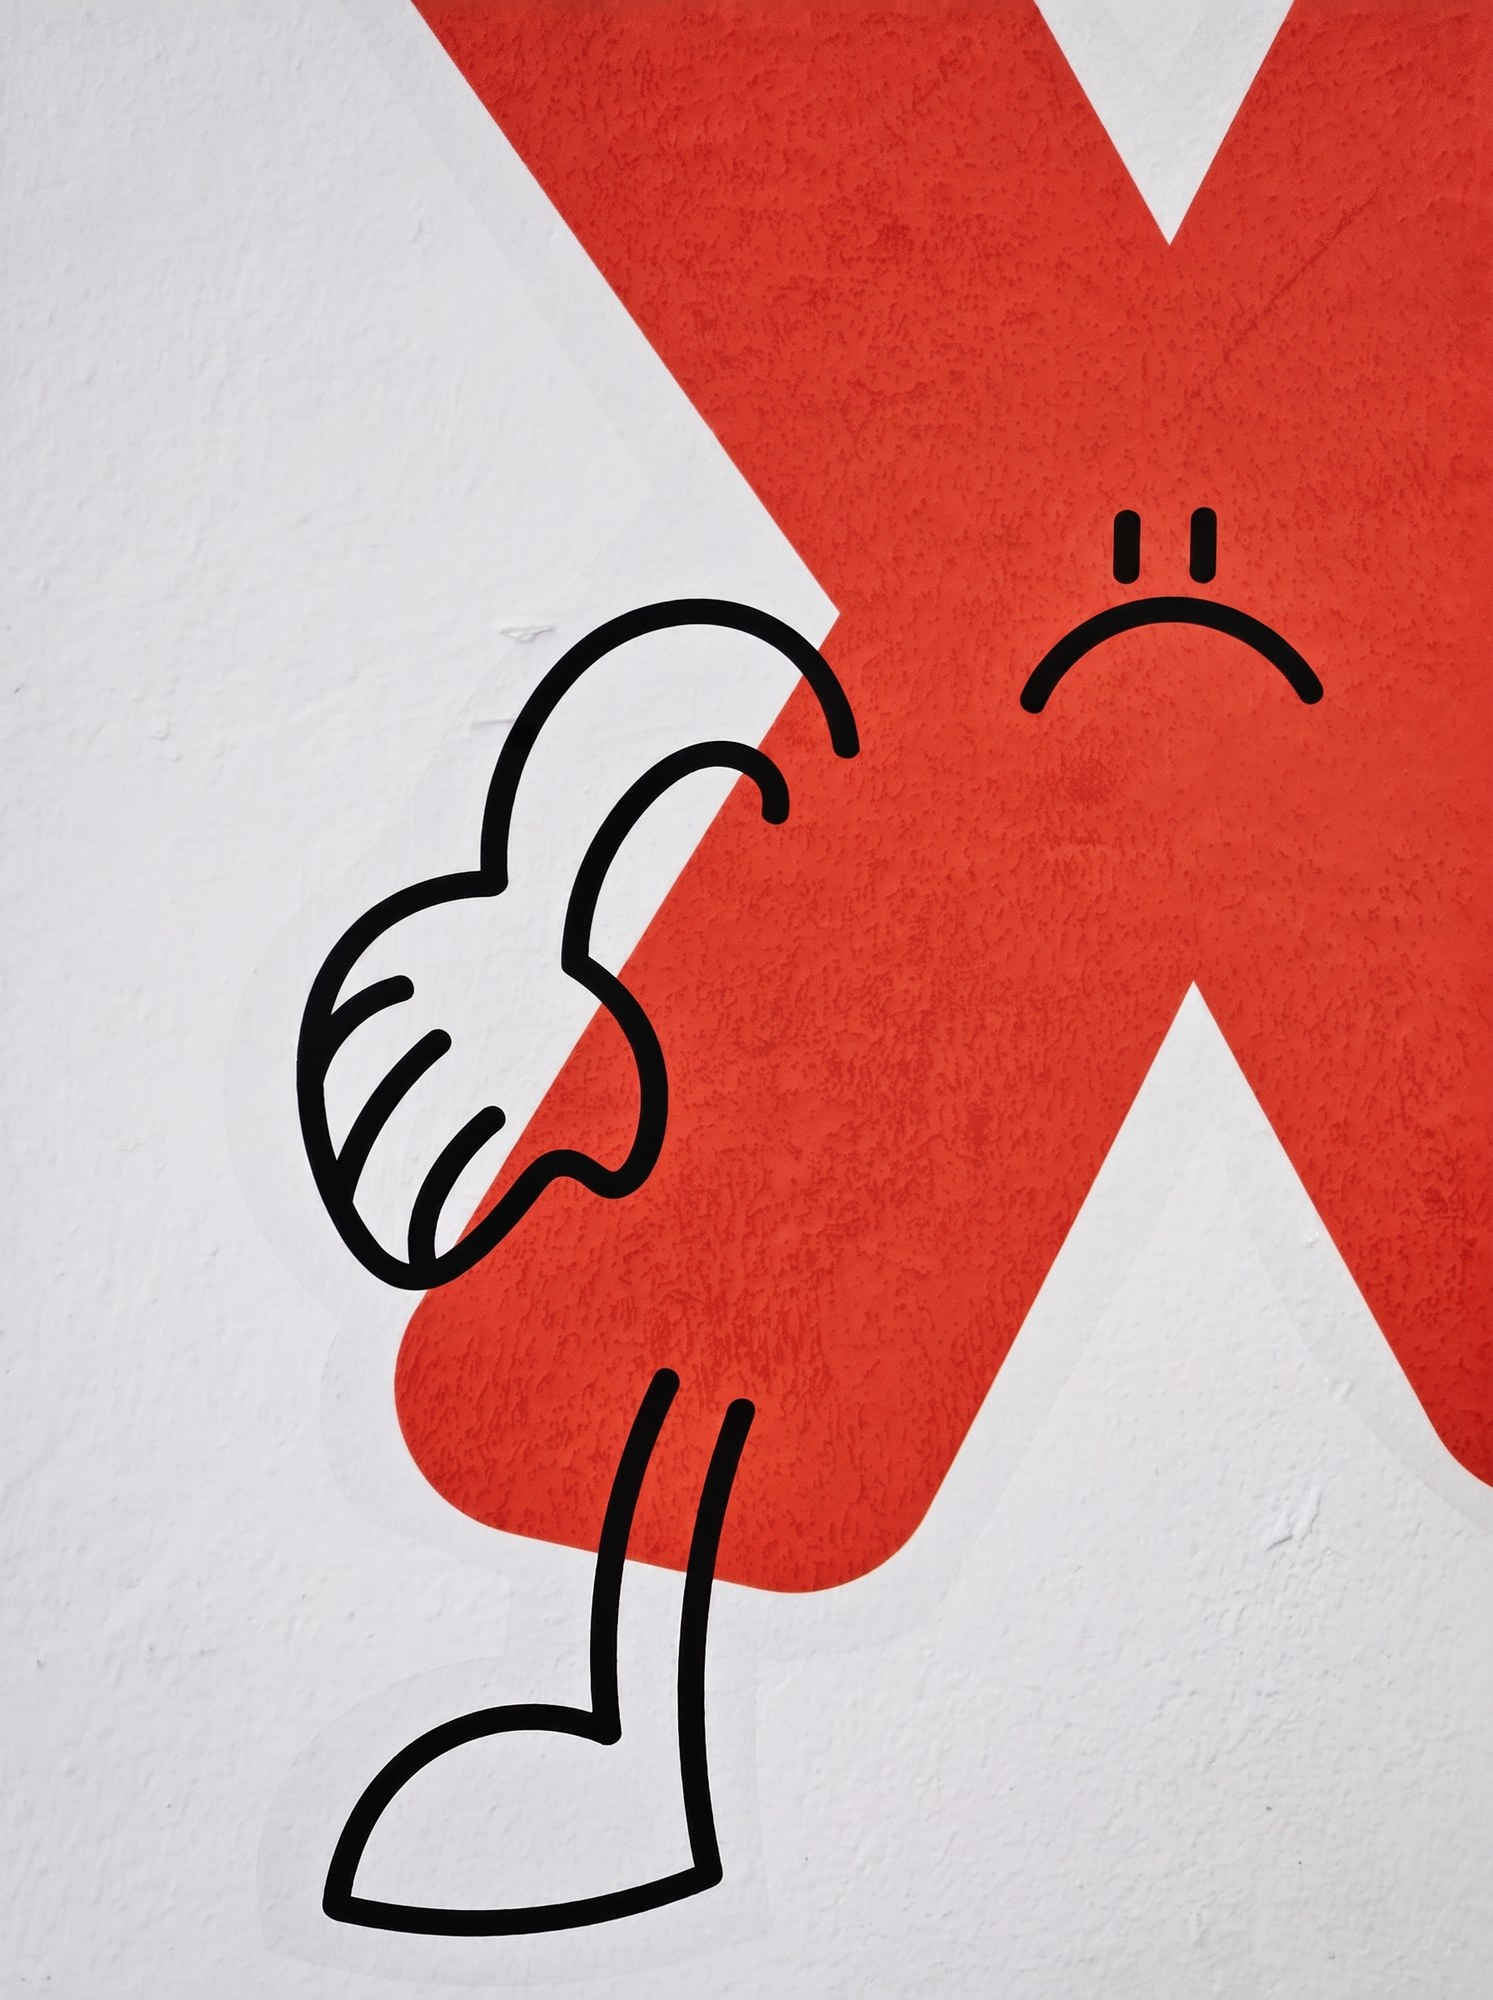
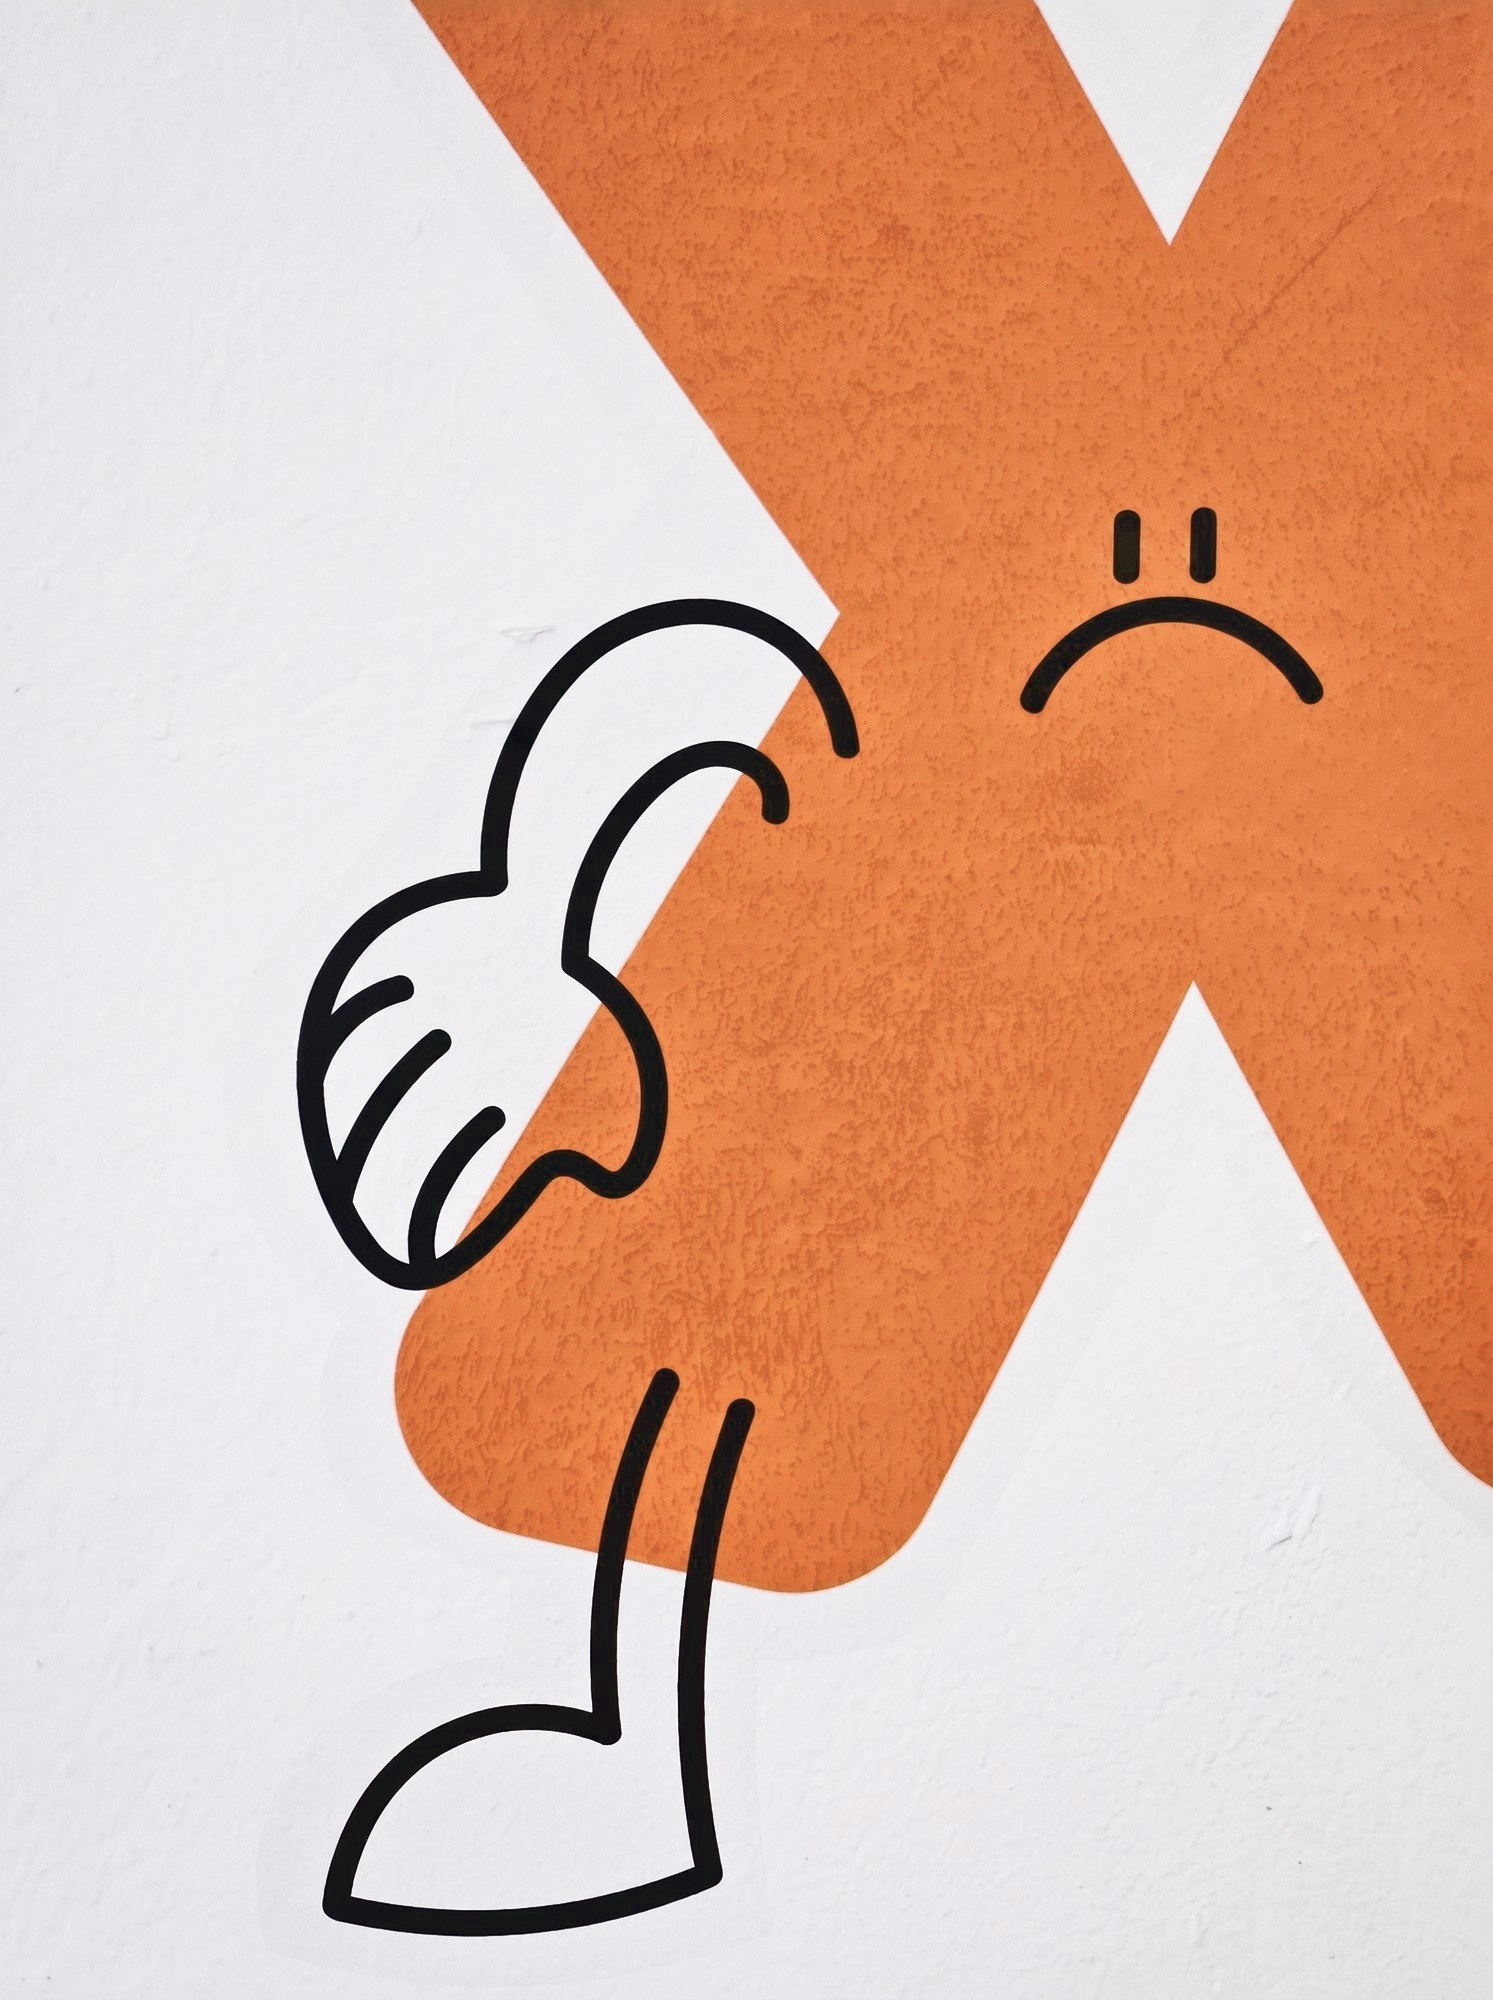
Warm the ChikChak mark, and make the hero drift readable
Colour: the X moves from hue 10 to 26 degrees, so it reads orange
rather than red, with saturation eased from 0.75 to 0.65. The wall
lifts from 222 to 235 and loses some of its grey cast, and the blacks
come up slightly so the frame is gentler overall. Regraded from the
original PNG rather than the JPEG I had already written, so there is
only one generation of compression.

The close-up in the gallery is the same mark, so it gets the same
treatment. Left alone it would have shown a red X on a page whose
header had an orange one.

Motion: the shapes were travelling about 13% of a 40px shape over 9 to
19 seconds, roughly half a pixel a second, which reads as a rendering
fault rather than as movement. Travel is now around 50% with shorter
loops, measured at 13 to 30px per cycle. Checked across four points in
the loop that nothing drifts onto the flowers.

Claude-Session: https://claude.ai/code/session_01W9nRTNjjATAc83RHb9wNSu

diff --git a/assets/styles.css b/assets/styles.css
@@ -204,41 +204,45 @@ a { color: inherit; text-decoration: none; }
   will-change: transform;
 }
 /* Lifted out of the artwork — coordinates are the originals. */
-.hero__shape--circle   { left: 31.562%; top: 46.319%; width: 3.008%; animation: drift-a 11s ease-in-out      0s infinite; }
-.hero__shape--pyramid  { left: 26.680%; top: 52.292%; width: 3.594%; animation: drift-b 14s ease-in-out     -2s infinite; }
-.hero__shape--star     { left: 61.797%; top: 43.125%; width: 3.242%; animation: drift-c  9s ease-in-out      0s infinite; }
-.hero__shape--cylinder { left: 67.383%; top: 46.528%; width: 3.867%; animation: drift-d 16s ease-in-out     -4s infinite; }
+.hero__shape--circle   { left: 31.562%; top: 46.319%; width: 3.008%; animation: drift-a  8s ease-in-out      0s infinite; }
+.hero__shape--pyramid  { left: 26.680%; top: 52.292%; width: 3.594%; animation: drift-b 10s ease-in-out     -2s infinite; }
+.hero__shape--star     { left: 61.797%; top: 43.125%; width: 3.242%; animation: drift-c  7s ease-in-out      0s infinite; }
+.hero__shape--cylinder { left: 67.383%; top: 46.528%; width: 3.867%; animation: drift-d 11s ease-in-out     -4s infinite; }
 
 /* Added decoration, sitting in the empty ground around the composition. */
-.hero__shape--f-cube    { left: 12.500%; top: 63.000%; width: 4.000%; animation: drift-b 19s ease-in-out    -6s infinite; }
-.hero__shape--f-pyramid { left: 82.000%; top: 60.000%; width: 3.400%; animation: drift-e 15s ease-in-out    -1s infinite; }
-.hero__shape--f-circle  { left: 36.000%; top: 87.500%; width: 2.300%; animation: drift-a 13s ease-in-out    -5s infinite; }
-.hero__shape--f-star    { left: 64.000%; top: 88.000%; width: 2.600%; animation: drift-c 12s ease-in-out    -3s infinite; }
+.hero__shape--f-cube    { left: 12.500%; top: 63.000%; width: 4.000%; animation: drift-b 13s ease-in-out    -6s infinite; }
+.hero__shape--f-pyramid { left: 82.000%; top: 60.000%; width: 3.400%; animation: drift-e 10s ease-in-out    -1s infinite; }
+.hero__shape--f-circle  { left: 36.000%; top: 87.500%; width: 2.300%; animation: drift-a  9s ease-in-out    -5s infinite; }
+.hero__shape--f-star    { left: 64.000%; top: 88.000%; width: 2.600%; animation: drift-c  8s ease-in-out    -3s infinite; }
 
 /* Percentage translations resolve against each shape's own box, so the
-   drift stays proportional however large the hero happens to be drawn. */
+   drift stays proportional however large the hero happens to be drawn.
+   These used to move about 13% of a 40px shape over 9 to 19 seconds,
+   roughly half a pixel a second, which reads as a rendering fault rather
+   than as motion. The travel is now about 50% and the loops are shorter,
+   so a shape covers a fifth of its own width in a second or two. */
 @keyframes drift-a {
   0%, 100% { transform: translate(0, 0); }
-  33%      { transform: translate(6%, -13%); }
-  66%      { transform: translate(-4%, -6%); }
+  33%      { transform: translate(22%, -48%); }
+  66%      { transform: translate(-16%, -22%); }
 }
 @keyframes drift-b {
   0%, 100% { transform: translate(0, 0) rotate(0deg); }
-  40%      { transform: translate(-6%, -10%) rotate(-5deg); }
-  70%      { transform: translate(3%, -4%) rotate(2deg); }
+  40%      { transform: translate(-24%, -40%) rotate(-16deg); }
+  70%      { transform: translate(12%, -16%) rotate(7deg); }
 }
 @keyframes drift-c {
   0%, 100% { transform: translate(0, 0) rotate(0deg); }
-  50%      { transform: translate(4%, -14%) rotate(12deg); }
+  50%      { transform: translate(16%, -50%) rotate(30deg); }
 }
 @keyframes drift-d {
   0%, 100% { transform: translate(0, 0) rotate(0deg); }
-  35%      { transform: translate(-5%, -9%) rotate(3deg); }
-  75%      { transform: translate(4%, -13%) rotate(-3deg); }
+  35%      { transform: translate(-20%, -34%) rotate(11deg); }
+  75%      { transform: translate(16%, -46%) rotate(-11deg); }
 }
 @keyframes drift-e {
   0%, 100% { transform: translate(0, 0) rotate(0deg); }
-  50%      { transform: translate(-3%, -15%) rotate(6deg); }
+  50%      { transform: translate(-14%, -52%) rotate(18deg); }
 }
 @media (prefers-reduced-motion: reduce) {
   .hero__shape { animation: none; }
